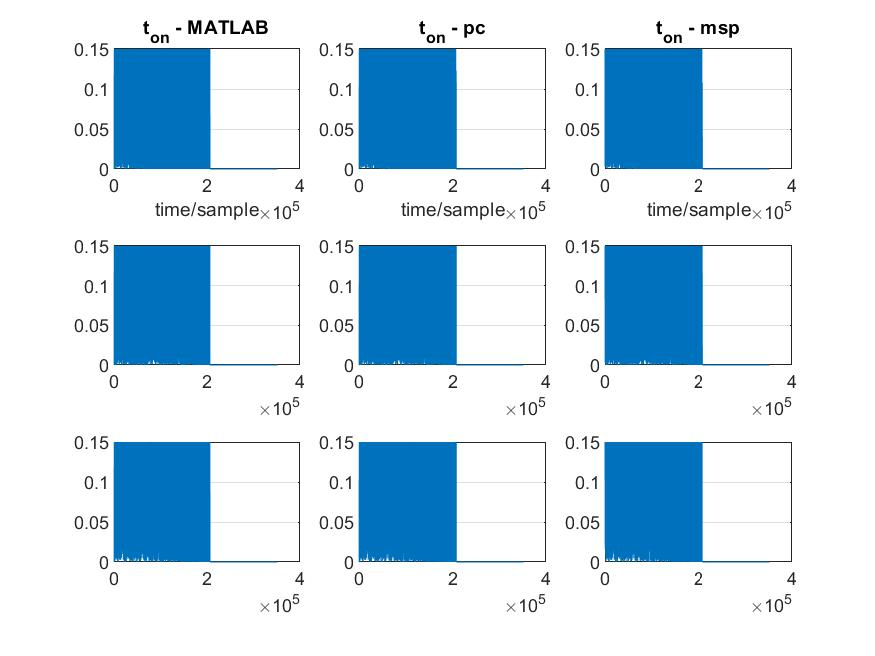
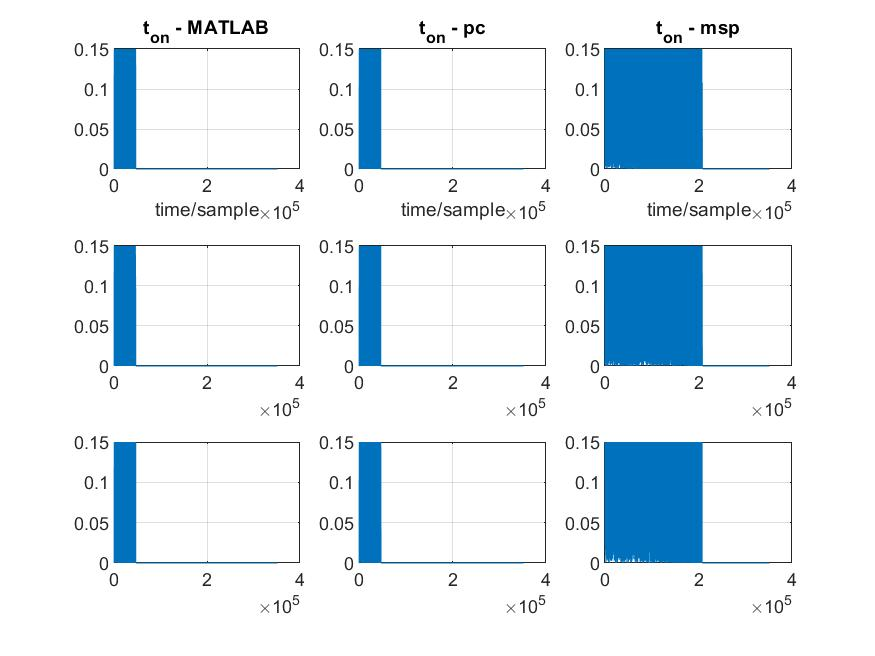
epsilon is back to m/c accuracy

diff --git a/detumble_algo_pc/detumble_algo.c b/detumble_algo_pc/detumble_algo.c
@@ -10,12 +10,20 @@ signed char T2[3][3] = {1, 0, 0, 0, 1, 0, 0, 0, -1};
 vector_t b1_bias = {0,0,0};
 vector_t b2_bias = {0,0,0};
 typedef unsigned char bool;
+
+int sign_fn(double a)
+{
+	if (a == 0) return 0;
+	if (a < 0) return -1;
+	if (a > 0) return 1;
+}
+
 /*
  * Description: performs step3 of detumbling on ADCS - Sensor readings and fusion
  * input:  weights, raw and bias values of each sensor
  * output: normalized and fused magnetic field readings.
-*/
-void step3_biasCalc(float w1, vector_t b1_raw, vector_t b1_bias, float w2, vector_t b2_raw, vector_t b2_bias, vector_t* b_cur, vector_t* b_cur_norm)
+ */
+void step3_biasCalc(double w1, vector_t b1_raw, vector_t b1_bias, double w2, vector_t b2_raw, vector_t b2_bias, vector_t* b_cur, vector_t* b_cur_norm)
 {
 	//vector_t b1_cur; b2_cur; b1_bias; b2_bias; b1_raw; b2_raw, b_cur;
 	vector_t b1_cur, b2_cur;
@@ -34,7 +42,7 @@ void step3_biasCalc(float w1, vector_t b1_raw, vector_t b1_bias, float w2, vecto
 	b_cur->y = w1*b1_cur.y + w2*b2_cur.y;
 	b_cur->z = w1*b1_cur.z + w2*b2_cur.z;
 
-	float temp_norm = sqrt(b_cur->x*b_cur->x + b_cur->y*b_cur->y + b_cur->z*b_cur->z);
+	double temp_norm = sqrt(b_cur->x*b_cur->x + b_cur->y*b_cur->y + b_cur->z*b_cur->z);
 	b_cur_norm->x = b_cur->x / temp_norm;
 	b_cur_norm->y = b_cur->y / temp_norm;
 	b_cur_norm->z = b_cur->z / temp_norm;
@@ -42,7 +50,7 @@ void step3_biasCalc(float w1, vector_t b1_raw, vector_t b1_bias, float w2, vecto
 	//return b_cur_norm;
 }
 
-float Tc = 0.25; // 4 Hz, 250 ms
+double Tc = 0.25; // 4 Hz, 250 ms
 /*
  * Description: performs step4 of the detumbling on ADCS - Bdot calculation
  * input: b_cur, b_prev, b_cur_norm, b_prev_norm
@@ -76,7 +84,7 @@ void step4_bdotCalc(vector_t b_cur, vector_t b_cur_norm, vector_t b_prev, vector
 }
 
 
-float alpha = 0.01; 
+double alpha = 0.01; 
 /*
  * Description: performs step5 of the detumbling algorithm - tumble parameter update
  * input: alpha, p_tumb, b_dot
@@ -87,30 +95,35 @@ float alpha = 0.01;
 vector_t step5_tumbleParam(vector_t b_dot_norm) 
 {
 	// TODO: verify on MSP432: check if it works, the static implemenation
-	static vector_t p_tumb    = {2,2,2};
-	
+	static vector_t p_tumb = {2,2,2};
+	static bool first_call = true;
+
 	// if (b_dot_old.x != b_dot_norm.x || b_dot_old.y != b_dot_norm.y || b_dot_old.z != b_dot_norm.z) {
 	p_tumb.x = alpha* fabs(b_dot_norm.x) + (1-alpha)*p_tumb.x;
 	p_tumb.y = alpha* fabs(b_dot_norm.y) + (1-alpha)*p_tumb.y;
 	p_tumb.z = alpha* fabs(b_dot_norm.z) + (1-alpha)*p_tumb.z;
 	
+	if (first_call == true) {
+		p_tumb.x = 2; p_tumb.y = 2; p_tumb.z = 2;
+		first_call = false;
+	}
 	return p_tumb;
 }
 
-float detumble_p_bar_upp = 0.085;
-float detumble_p_bar_low = 0.075;
+double detumble_p_bar_upp = 0.085;
+double detumble_p_bar_low = 0.075;
 /*
  * Description: performs step6 of the detumbling algorithm - counter update
  * input: p_tumb
  * output: c_tumble
  * Make sure the counter is unsigned int, unclear overflow errors upon saturation
  */
-void step6_countUpdate(vector_t b_dot_norm, unsigned int* c_tumb, unsigned int* c_detumb)
+void step6_countUpdate(vector_t p_tumb, unsigned int* c_tumb, unsigned int* c_detumb)
 {
 	// static int detumble_count_detumb = 0;
 	// static int detumble_count_tumb = 0;
 
-	if (b_dot_norm.x <= detumble_p_bar_low && b_dot_norm.y <= detumble_p_bar_low && b_dot_norm.z <= detumble_p_bar_low) {
+	if (p_tumb.x <= detumble_p_bar_low && p_tumb.y <= detumble_p_bar_low && p_tumb.z <= detumble_p_bar_low) {
 		// saturate timer, avoid overflows
 		if (*c_detumb < 65535) {
 			*c_detumb = *c_detumb + 1;
@@ -120,7 +133,7 @@ void step6_countUpdate(vector_t b_dot_norm, unsigned int* c_tumb, unsigned int* 
 		*c_detumb = 0;
 	}
 
-	if (b_dot_norm.x >= detumble_p_bar_upp || b_dot_norm.y >= detumble_p_bar_upp || b_dot_norm.z >= detumble_p_bar_upp) {
+	if (p_tumb.x >= detumble_p_bar_upp || p_tumb.y >= detumble_p_bar_upp || p_tumb.z >= detumble_p_bar_upp) {
 		// saturate timer, avoid overflows
 		if (*c_tumb < 65535) {
 			*c_tumb = *c_tumb + 1;
@@ -131,8 +144,8 @@ void step6_countUpdate(vector_t b_dot_norm, unsigned int* c_tumb, unsigned int* 
 	}
 }
 
-float t_conf_tumb = 120;
-float t_conf_detumb = 3600;
+double t_conf_tumb = 120;
+double t_conf_detumb = 3600;
 /*
  * Description: performs step7 of the detumbling algorithm - decision to actuate
  * input: c_tumble, c_detumble
@@ -155,7 +168,7 @@ int step7_assessRotation(unsigned int* c_tumb, unsigned int* c_detumb) //, vecto
 // TODO: Step8 to be implemented on OBC
 
 
-float k_w = 1.2073917;
+double k_w = 1.2073917;
 /*
  * Description: performs step8 of the detumbling algorithm - how much to actuate
  * input: k_w, b_cur, d_dot_norm
@@ -164,15 +177,15 @@ float k_w = 1.2073917;
 vector_t step9_controlCalc(vector_t b_cur, vector_t b_dot_norm)
 {
 	vector_t m_des;
-	float temp_norm = sqrt(b_cur.x*b_cur.x + b_cur.y*b_cur.y + b_cur.z*b_cur.z);
+	double temp_norm = sqrt(b_cur.x*b_cur.x + b_cur.y*b_cur.y + b_cur.z*b_cur.z);
 	m_des.x = -k_w * b_dot_norm.x / temp_norm;
 	m_des.y = -k_w * b_dot_norm.y / temp_norm;
 	m_des.z = -k_w * b_dot_norm.z / temp_norm;
 	return m_des;
 }
 
-float delta = 0.6;
-float Ta;
+double delta = 0.6;
+double Ta;
 
 vector_t m_max = {0.002, 0.002, 0.002};
 vector_t m_pol = { 1, 1, 1 };
@@ -200,19 +213,19 @@ void step10_torqueActuate(vector_t m_des, vector_t m_pol, vector_t* t_on, vector
 	t_on->z = Ta * MIN(1, var.z);
 
 	// direction
-	s_on->x = m_pol.x * SGN(m_des.x);
-	s_on->y = m_pol.y * SGN(m_des.y);
-	s_on->z = m_pol.z * SGN(m_des.z);
+	s_on->x = m_pol.x * sign_fn(m_des.x);
+	s_on->y = m_pol.y * sign_fn(m_des.y);
+	s_on->z = m_pol.z * sign_fn(m_des.z);
 	// TODO: add actuation signals
 }
 
-float Ts = 0.02;
+double Ts = 0.02;
 /*
  * Description: Hold for desaturate/hysterisis 
  * input: control, hold and actuation time
  * output: stop processor in the meantime
  */
-float step11_hold()
+double step11_hold()
 {
 	return 0;
 	// delay(Ta+Tc+Ts);

diff --git a/plotters/compare_plots.m b/plotters/compare_plots.m
@@ -1,7 +1,7 @@
 % plot detumble parameter for verifying the C and matlab detumble algorithms
 
-readMatrix_r = csvread('ndata4test_03_in.csv', 1, 0);
-readMatrix_pc = csvread('ndata4test_03_out_pc.csv', 1, 0);
+readMatrix_r = csvread('data4test_03_in2.csv', 1, 0);
+readMatrix_pc = csvread('data4test_03_out_pc3.csv', 1, 0);
 readMatrix_msp = csvread('data4test_03_out_msp.csv', 1, 0);
 
 % to be able to plot incomplete HIL tests, resize everyone to MSP432's
@@ -31,7 +31,7 @@ xlabel('time/sample');
 linkaxes([pu1,pu2,pu3], 'xy');
 saveas(plot_save1,'cmp1','jpg');
 
-%% T_ON (time) for MTQ 
+%% S_ON (time) for MTQ 
 
 plot_save2 = figure(2);
 py1 = subplot(3,3,1);
@@ -64,7 +64,7 @@ plot(readMatrix_msp(:,12)); grid on;
 saveas(plot_save2,'cmp2','jpg');
 linkaxes([py1,py2,py3,py4,py5,py6,py7,py8,py9],'xy');
 
-%% S_ON (direction) for MTQ
+%% t_ON (direction) for MTQ
 
 plot_save3 = figure(3);
 pt1 = subplot(3,3,1);
@@ -123,3 +123,43 @@ title('c_{detumb} - msp');
 
 linkaxes([pv1,pv2,pv3,pv4,pv5,pv6], 'xy');
 saveas(plot_save4,'cmp4','jpg');
+
+
+%% difference (only matlab vs pc)
+% tumb diff
+plot_save5 = figure(5);
+
+pq1 = subplot(4,1,1);
+a1 = readMatrix_r(:,13) - readMatrix_pc(:,13);
+a2 = readMatrix_r(:,14) - readMatrix_pc(:,14);
+a3 = readMatrix_r(:,15) - readMatrix_pc(:,15);
+plot(a1); hold on; plot(a2); plot(a3);
+title('p_{tumb} diff');
+
+% sign diff
+pq2 = subplot(4,1,2);
+b1 = readMatrix_r(:,10) - readMatrix_pc(:,10);
+b2 = readMatrix_r(:,11) - readMatrix_pc(:,11);
+b3 = readMatrix_r(:,12) - readMatrix_pc(:,12);
+plot(b1); hold on; plot(b2); plot(b3);
+title('sign diff');
+
+% time (t_on) diff
+pq3 = subplot(4,1,3);
+c1 = readMatrix_r(:,7) - readMatrix_pc(:,7);
+c2 = readMatrix_r(:,8) - readMatrix_pc(:,8);
+c3 = readMatrix_r(:,9) - readMatrix_pc(:,9);
+plot(c1); hold on; plot(c2); plot(c3);
+title('time diff');
+
+% count diff
+pq4 = subplot(4,1,4);
+d1 = readMatrix_r(:,16) - readMatrix_pc(:,16);
+d2 = readMatrix_r(:,17) - readMatrix_pc(:,17);
+plot(d1); hold on; plot(d2);
+title('count diff');
+
+linkaxes([pq1,pq2,pq3,pq4], 'x');
+saveas(plot_save5,'cmp5','jpg');
+% note: by inspecting readMatrix_r(find(b3), 9), the consquence
+% of wrong sign on the t_on can be checked. 

diff --git a/detumble_algo_pc/detumble_algo.h b/detumble_algo_pc/detumble_algo.h
@@ -54,12 +54,13 @@ extern "C" {
 #define MAX(a,b) (((a)>(b))?(a):(b))
 
 typedef struct {
-	float x; 
-	float y; 
-	float z;
+	double x; 
+	double y; 
+	double z;
 } vector_t;
 
-void step3_biasCalc(float w1, vector_t b1_raw, vector_t b1_bias, float w2, vector_t b2_raw, vector_t b2_bias, vector_t* b_cur, vector_t* b_cur_norm);
+int sign_fn(double a);
+void step3_biasCalc(double w1, vector_t b1_raw, vector_t b1_bias, double w2, vector_t b2_raw, vector_t b2_bias, vector_t* b_cur, vector_t* b_cur_norm);
 void step4_bdotCalc(vector_t b_cur, vector_t b_cur_norm, vector_t b_prev, vector_t b_prev_norm, vector_t* b_dot, vector_t* b_dot_norm);
 vector_t step5_tumbleParam(vector_t b_dot);
 void step6_countUpdate(vector_t p_tumb, unsigned int* c_tumb, unsigned int* c_detumb);
@@ -67,7 +68,7 @@ int step7_assessRotation(unsigned int* c_tumb, unsigned int* c_detumb);//, vecto
 // TODO: Step8 to be implemented on OBC
 vector_t step9_controlCalc(vector_t b_cur, vector_t b_dot_norm);
 void step10_torqueActuate(vector_t m_des, vector_t m_pol, vector_t* t_on, vector_t* s_on);
-float step11_hold();
+double step11_hold();
 
 void controlLoop(vector_t b1_raw, vector_t b2_raw, 
 				 vector_t* s_on, vector_t* t_on, vector_t* p_tumb, 

diff --git a/detumble_algo_pc/main.c b/detumble_algo_pc/main.c
@@ -11,7 +11,7 @@ check accuracy of double/ undersaturating points
 */
 
 
-void main(int argc, char *argv[])
+int main(int argc, char *argv[])
 {
 	if (argc < 2) {
 		printf("ERR: supply arguments correctly \n");
@@ -26,12 +26,12 @@ void main(int argc, char *argv[])
 	FILE *csv_output;
 	char buf[LINE_BUFFER] = { 0 };
 	//csv_input = fopen(argv[1], "r");
-	csv_input = fopen("ndata4test_03_in.csv", "r");
+	csv_input = fopen("data4test_03_in2.csv", "r");
 	if (csv_input == NULL) {
 		printf("failed to open input csv\n");
 	}
 
-	csv_output = fopen("ndata4test_03_out.csv", "w");
+	csv_output = fopen("data4test_03_out2.csv", "w");
 	if (csv_output == NULL) {
 		printf("failed to open output csv\n");
 	}
@@ -105,6 +105,6 @@ void main(int argc, char *argv[])
 	}
 	fclose(csv_input);
 	fclose(csv_output);
-	getch();
-	return(NULL);
+	//getch();
+	return 0;
 }

diff --git a/plotters/serial_plotter_bmx.m b/plotters/serial_plotter_bmx.m
@@ -1,7 +1,7 @@
 clear; clc;
  
 %User Defined Properties 
-serialPort = 'COM9';           % define COM port #
+serialPort = 'COM6';           % define COM port #
 plotTitle = 'PocketCube-MAG';  % plot title
 plotGrid = 'on';               % 'off' to turn off grid
 min = -10000;                  % set y-min
@@ -60,9 +60,9 @@ tic
 while ishandle(plotGraph1) %Loop when Plot is Active 
     dat = fgets(s); %Read Data from Serial as Float
     C = strsplit(dat);
-    temp1 = str2double(C(3)); 
-    temp2 = str2double(C(5));
-    temp3 = str2double(C(7));
+    temp1 = str2double(C(5)); 
+    temp2 = str2double(C(7));
+    temp3 = str2double(C(9));
     
     if(~isempty(dat))               % Make sure Data Type is Correct        
         count = count + 1;    
